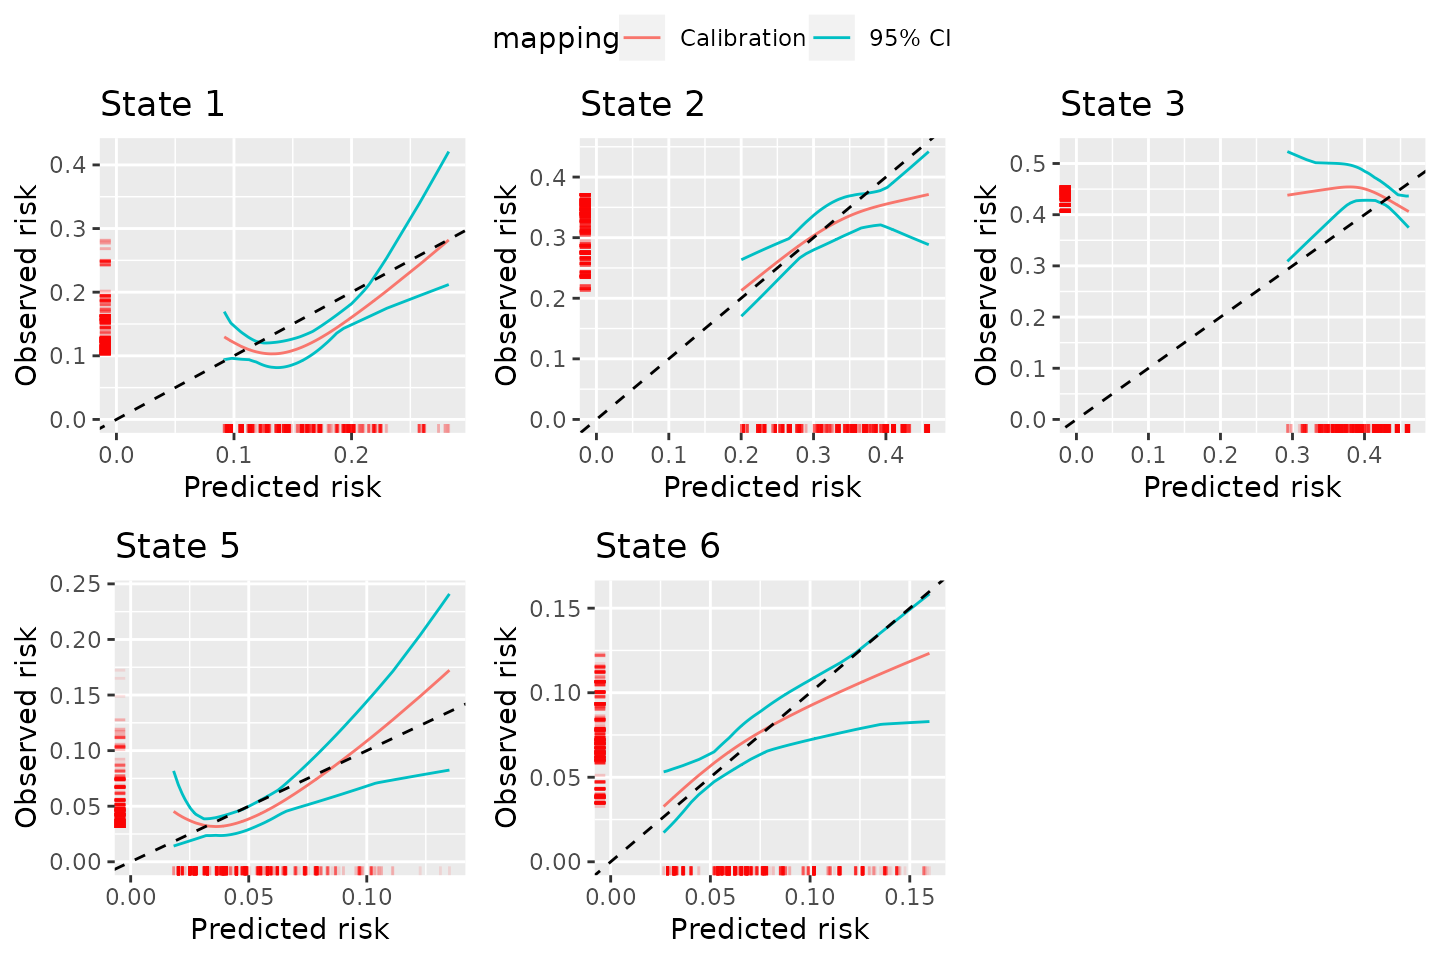
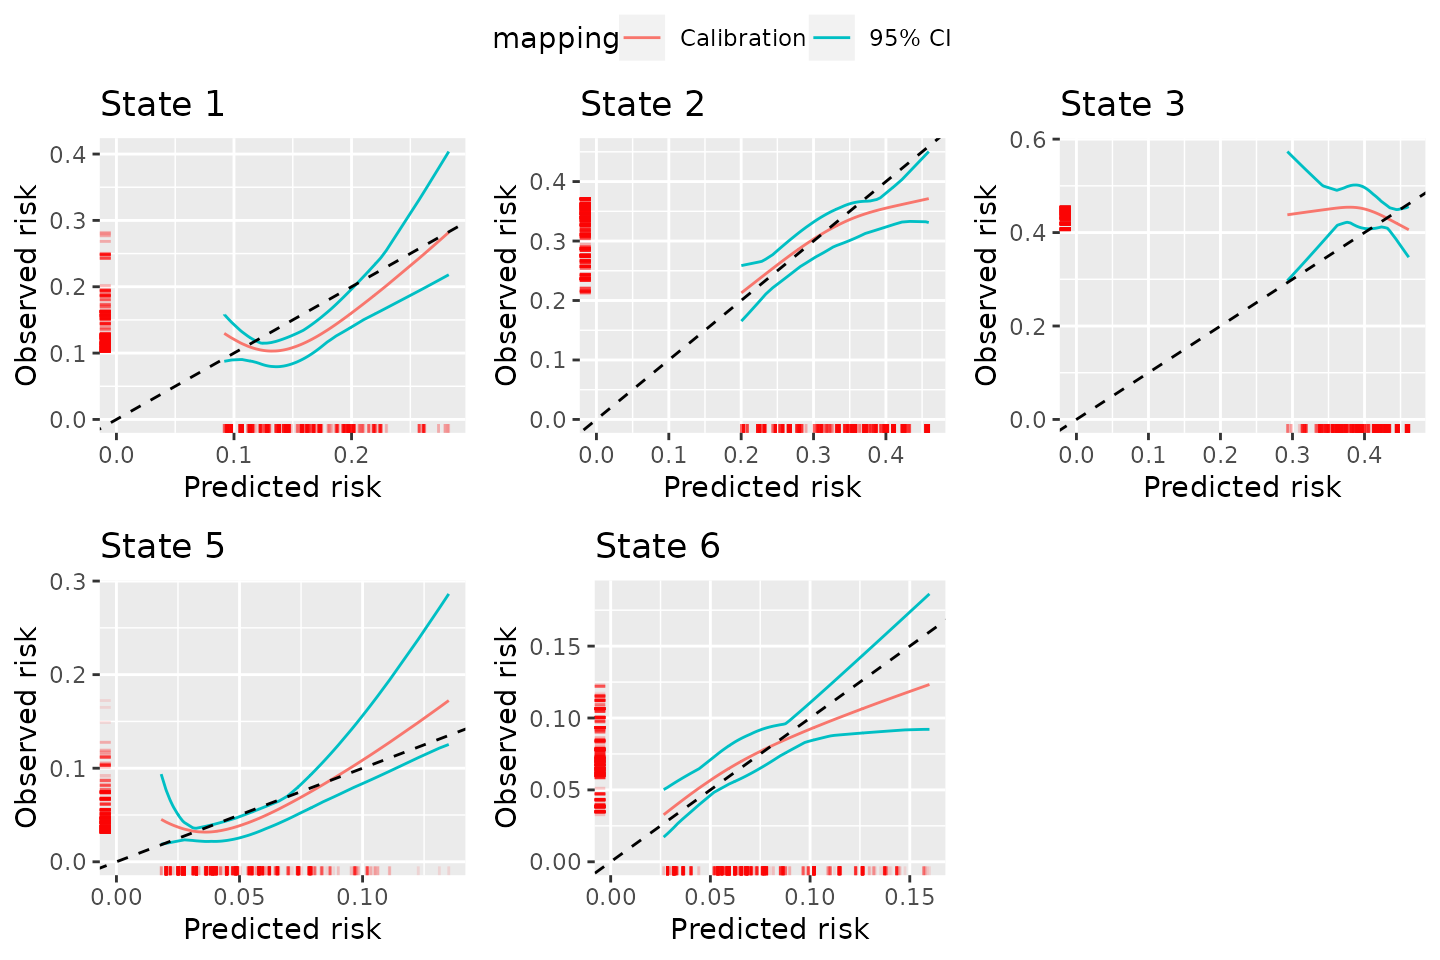
Deploying to gh-pages from @ alexpate30/calibmsm@f8c4f7b782e1b69d20ba667bd0fd2d6e50858ee9 🚀

diff --git a/reference/calib_blr.html b/reference/calib_blr.html
@@ -258,38 +258,38 @@ in the vignette XXXX.</p>
 <span class="r-out co"><span class="r-pr">#&gt;</span>   .. ..$ id       : int [1:1778] 2 4 5 7 10 13 14 16 18 19 ...</span>
 <span class="r-out co"><span class="r-pr">#&gt;</span>   .. ..$ pred     : num [1:1778] 0.114 0.1384 0.1233 0.0974 0.1137 ...</span>
 <span class="r-out co"><span class="r-pr">#&gt;</span>   .. ..$ obs      : num [1:1778] 0.11 0.104 0.105 0.124 0.11 ...</span>
-<span class="r-out co"><span class="r-pr">#&gt;</span>   .. ..$ obs.lower: num [1:1778] 0.0875 0.0793 0.0846 0.0859 0.0879 ...</span>
-<span class="r-out co"><span class="r-pr">#&gt;</span>   .. ..$ obs.upper: num [1:1778] 0.13 0.124 0.125 0.16 0.13 ...</span>
+<span class="r-out co"><span class="r-pr">#&gt;</span>   .. ..$ obs.lower: num [1:1778] 0.0864 0.082 0.0827 0.0913 0.0866 ...</span>
+<span class="r-out co"><span class="r-pr">#&gt;</span>   .. ..$ obs.upper: num [1:1778] 0.136 0.135 0.13 0.165 0.136 ...</span>
 <span class="r-out co"><span class="r-pr">#&gt;</span>   ..$ state2:'data.frame':	1778 obs. of  5 variables:</span>
 <span class="r-out co"><span class="r-pr">#&gt;</span>   .. ..$ id       : int [1:1778] 2 4 5 7 10 13 14 16 18 19 ...</span>
 <span class="r-out co"><span class="r-pr">#&gt;</span>   .. ..$ pred     : num [1:1778] 0.232 0.184 0.161 0.212 0.232 ...</span>
 <span class="r-out co"><span class="r-pr">#&gt;</span>   .. ..$ obs      : num [1:1778] 0.17 0.186 0.176 0.179 0.17 ...</span>
-<span class="r-out co"><span class="r-pr">#&gt;</span>   .. ..$ obs.lower: num [1:1778] 0.125 0.154 0.14 0.145 0.125 ...</span>
-<span class="r-out co"><span class="r-pr">#&gt;</span>   .. ..$ obs.upper: num [1:1778] 0.22 0.213 0.206 0.208 0.22 ...</span>
+<span class="r-out co"><span class="r-pr">#&gt;</span>   .. ..$ obs.lower: num [1:1778] 0.12 0.155 0.148 0.145 0.12 ...</span>
+<span class="r-out co"><span class="r-pr">#&gt;</span>   .. ..$ obs.upper: num [1:1778] 0.213 0.217 0.211 0.204 0.213 ...</span>
 <span class="r-out co"><span class="r-pr">#&gt;</span>   ..$ state3:'data.frame':	1778 obs. of  5 variables:</span>
 <span class="r-out co"><span class="r-pr">#&gt;</span>   .. ..$ id       : int [1:1778] 2 4 5 7 10 13 14 16 18 19 ...</span>
 <span class="r-out co"><span class="r-pr">#&gt;</span>   .. ..$ pred     : num [1:1778] 0.0844 0.0758 0.0551 0.0615 0.0844 ...</span>
 <span class="r-out co"><span class="r-pr">#&gt;</span>   .. ..$ obs      : num [1:1778] 0.1249 0.1167 0.0919 0.1001 0.1248 ...</span>
-<span class="r-out co"><span class="r-pr">#&gt;</span>   .. ..$ obs.lower: num [1:1778] 0.095 0.0889 0.0461 0.0623 0.095 ...</span>
-<span class="r-out co"><span class="r-pr">#&gt;</span>   .. ..$ obs.upper: num [1:1778] 0.153 0.142 0.135 0.135 0.153 ...</span>
+<span class="r-out co"><span class="r-pr">#&gt;</span>   .. ..$ obs.lower: num [1:1778] 0.0911 0.0875 0.0477 0.0583 0.0911 ...</span>
+<span class="r-out co"><span class="r-pr">#&gt;</span>   .. ..$ obs.upper: num [1:1778] 0.152 0.142 0.133 0.135 0.152 ...</span>
 <span class="r-out co"><span class="r-pr">#&gt;</span>   ..$ state4:'data.frame':	1778 obs. of  5 variables:</span>
 <span class="r-out co"><span class="r-pr">#&gt;</span>   .. ..$ id       : int [1:1778] 2 4 5 7 10 13 14 16 18 19 ...</span>
 <span class="r-out co"><span class="r-pr">#&gt;</span>   .. ..$ pred     : num [1:1778] 0.233 0.218 0.183 0.221 0.233 ...</span>
 <span class="r-out co"><span class="r-pr">#&gt;</span>   .. ..$ obs      : num [1:1778] 0.243 0.224 0.185 0.228 0.243 ...</span>
-<span class="r-out co"><span class="r-pr">#&gt;</span>   .. ..$ obs.lower: num [1:1778] 0.203 0.191 0.153 0.193 0.203 ...</span>
-<span class="r-out co"><span class="r-pr">#&gt;</span>   .. ..$ obs.upper: num [1:1778] 0.283 0.254 0.215 0.256 0.283 ...</span>
+<span class="r-out co"><span class="r-pr">#&gt;</span>   .. ..$ obs.lower: num [1:1778] 0.203 0.192 0.151 0.194 0.203 ...</span>
+<span class="r-out co"><span class="r-pr">#&gt;</span>   .. ..$ obs.upper: num [1:1778] 0.28 0.253 0.216 0.257 0.28 ...</span>
 <span class="r-out co"><span class="r-pr">#&gt;</span>   ..$ state5:'data.frame':	1778 obs. of  5 variables:</span>
 <span class="r-out co"><span class="r-pr">#&gt;</span>   .. ..$ id       : int [1:1778] 2 4 5 7 10 13 14 16 18 19 ...</span>
 <span class="r-out co"><span class="r-pr">#&gt;</span>   .. ..$ pred     : num [1:1778] 0.148 0.154 0.143 0.144 0.149 ...</span>
 <span class="r-out co"><span class="r-pr">#&gt;</span>   .. ..$ obs      : num [1:1778] 0.191 0.165 0.222 0.212 0.188 ...</span>
-<span class="r-out co"><span class="r-pr">#&gt;</span>   .. ..$ obs.lower: num [1:1778] 0.163 0.147 0.174 0.171 0.162 ...</span>
-<span class="r-out co"><span class="r-pr">#&gt;</span>   .. ..$ obs.upper: num [1:1778] 0.215 0.182 0.269 0.253 0.21 ...</span>
+<span class="r-out co"><span class="r-pr">#&gt;</span>   .. ..$ obs.lower: num [1:1778] 0.164 0.148 0.178 0.175 0.161 ...</span>
+<span class="r-out co"><span class="r-pr">#&gt;</span>   .. ..$ obs.upper: num [1:1778] 0.219 0.182 0.27 0.255 0.214 ...</span>
 <span class="r-out co"><span class="r-pr">#&gt;</span>   ..$ state6:'data.frame':	1778 obs. of  5 variables:</span>
 <span class="r-out co"><span class="r-pr">#&gt;</span>   .. ..$ id       : int [1:1778] 2 4 5 7 10 13 14 16 18 19 ...</span>
 <span class="r-out co"><span class="r-pr">#&gt;</span>   .. ..$ pred     : num [1:1778] 0.189 0.23 0.335 0.264 0.189 ...</span>
 <span class="r-out co"><span class="r-pr">#&gt;</span>   .. ..$ obs      : num [1:1778] 0.207 0.254 0.316 0.28 0.207 ...</span>
-<span class="r-out co"><span class="r-pr">#&gt;</span>   .. ..$ obs.lower: num [1:1778] 0.182 0.232 0.281 0.261 0.182 ...</span>
-<span class="r-out co"><span class="r-pr">#&gt;</span>   .. ..$ obs.upper: num [1:1778] 0.229 0.281 0.35 0.304 0.229 ...</span>
+<span class="r-out co"><span class="r-pr">#&gt;</span>   .. ..$ obs.lower: num [1:1778] 0.186 0.231 0.279 0.256 0.185 ...</span>
+<span class="r-out co"><span class="r-pr">#&gt;</span>   .. ..$ obs.upper: num [1:1778] 0.237 0.286 0.355 0.31 0.237 ...</span>
 <span class="r-out co"><span class="r-pr">#&gt;</span>  $ metadata:List of 8</span>
 <span class="r-out co"><span class="r-pr">#&gt;</span>   ..$ valid.transitions   : num [1:6] 1 2 3 4 5 6</span>
 <span class="r-out co"><span class="r-pr">#&gt;</span>   ..$ assessed.transitions: num [1:6] 1 2 3 4 5 6</span>

diff --git a/articles/Comparison-with-graphical-calibration-curves-in-competing-risks-setting.html b/articles/Comparison-with-graphical-calibration-curves-in-competing-risks-setting.html
@@ -221,11 +221,11 @@ the pseudo-value approach, implemented through
 <span>                 n.pctls <span class="op">=</span> <span class="fl">9</span>,</span>
 <span>                 CI <span class="op">=</span> <span class="fl">95</span>,</span>
 <span>                 CI.type <span class="op">=</span> <span class="st">"parametric"</span><span class="op">)</span></span>
-<span><span class="co">#&gt; [1] "Calculate pseudo values for state =  1 2023-06-14 11:20:15.665328"</span></span>
-<span><span class="co">#&gt; [1] "Calculate pseudo values for state =  2 2023-06-14 11:23:56.29825"</span></span>
-<span><span class="co">#&gt; [1] "Calculate pseudo values for state =  3 2023-06-14 11:27:37.575389"</span></span>
-<span><span class="co">#&gt; [1] "Calculate pseudo values for state =  5 2023-06-14 11:31:20.487616"</span></span>
-<span><span class="co">#&gt; [1] "Calculate pseudo values for state =  6 2023-06-14 11:35:00.28798"</span></span>
+<span><span class="co">#&gt; [1] "Calculate pseudo values for state =  1 2023-06-14 15:51:48.473583"</span></span>
+<span><span class="co">#&gt; [1] "Calculate pseudo values for state =  2 2023-06-14 15:56:27.850374"</span></span>
+<span><span class="co">#&gt; [1] "Calculate pseudo values for state =  3 2023-06-14 16:01:04.810576"</span></span>
+<span><span class="co">#&gt; [1] "Calculate pseudo values for state =  5 2023-06-14 16:05:36.728207"</span></span>
+<span><span class="co">#&gt; [1] "Calculate pseudo values for state =  6 2023-06-14 16:09:56.406979"</span></span>
 <span></span>
 <span><span class="co">### Turn into plot and print</span></span>
 <span><span class="va">plot.calibmsm.pv</span> <span class="op">&lt;-</span> <span class="fu"><a href="https://rdrr.io/r/graphics/plot.default.html" class="external-link">plot</a></span><span class="op">(</span><span class="va">dat.calib.pv</span>, combine <span class="op">=</span> <span class="cn">TRUE</span>, nrow <span class="op">=</span> <span class="fl">2</span>, ncol <span class="op">=</span> <span class="fl">3</span><span class="op">)</span></span></code></pre></div>
